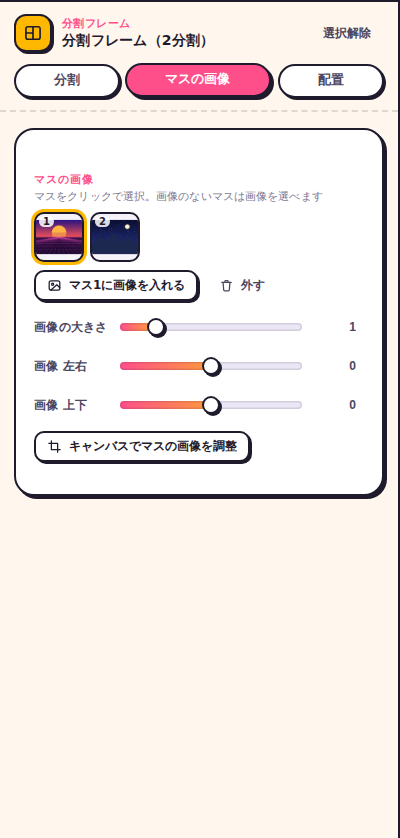
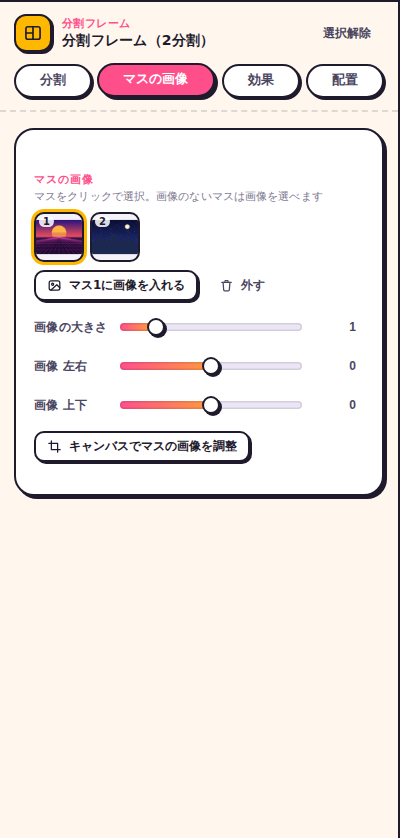
分割フレームに効果（色調・エフェクト・影）を追加、画像のフチ太さを0.01単位に
- 分割フレームに「効果」タブ：全部のマス／マスごとの切り替え、ワンクリック効果11種、
  色調（明るさ・コントラスト・彩度・色相・ぼかし・トーン）、ズーム／モーションブラー、
  モザイク、暗くする、周辺減光、色を重ねる、全体の影
- 背景とマスで色調・効果の処理を共通化（toneFilter / postFx）。背景の見た目は変化なし
- 画像のフチ太さを 0.05〜50・0.01 刻みに
- テスト追加（test_collage_fx）、compare.py で設定パネルの差分を表示、説明書と画像を更新

Claude-Session: https://claude.ai/code/session_017iaXbVyubLxKotPXWxBsUr

Changed region(s): [[0.09, 0.0621, 0.9, 0.1241]]

diff --git a/js/thumb/collage.js b/js/thumb/collage.js
@@ -1,8 +1,36 @@
 /* 楽ちんサムネメーカー：分割フレーム（複数の画像を2〜6分割で並べる） */
+/* マスの画像にかける効果（色調・ぼかし・ズーム／モーションブラー・モザイク・暗く・周辺減光・色を重ねる） */
+const CELL_FX_BASE = () => ({bright:0, contrast:0, sat:0, hue:0, blur:0, tone:'none', duo1:'#1b1464', duo2:'#ff9d5c',
+  zb:{on:false, amt:0.25}, mb:{on:false, dist:120, angle:0}, mosaic:{on:false, size:28}, dim:0, vignette:0, tint:{on:false, c:'#ff7a50', a:0.35, mode:'overlay'}});
+// 保存データの効果を既定値と合わせる（入れ子の項目も）
+function mergeCellFx(o){
+  const b = CELL_FX_BASE(); o = o || {};
+  for(const k in b) if(o[k] != null) b[k] = b[k] && typeof b[k] === 'object' ? Object.assign(b[k], o[k]) : o[k];
+  return b;
+}
+const cellFxOn = x => !!x && (x.bright || x.contrast || x.sat || x.hue || x.blur > 0 || x.tone !== 'none' || x.zb.on || x.mb.on || x.mosaic.on || x.dim > 0 || x.vignette > 0 || x.tint.on);
+// マス i にかかる効果（「全部のマス」なら共通の効果、「マスごと」ならそのマスの効果）
+const collageFx = (L, i) => L.fxMode === 'cell' ? (L.cells[i] || {}).fx : L.fx;
+const CELL_FX_CHIPS = [['vivid', '鮮やか'], ['soft', 'ふんわり'], ['mono', 'モノクロ'], ['retro', 'レトロ'], ['duo', 'デュオトーン'], ['red', 'モノクロ＋赤'],
+  ['dark', '暗く'], ['focus', '集中'], ['speed', '疾走'], ['mosaic', 'モザイク'], ['reset', 'なし']];
+const CELL_FX_PRESETS = {
+  reset:{}, vivid:{sat:0.45, contrast:0.18}, soft:{blur:6, bright:0.05, vignette:0.3}, mono:{tone:'mono', contrast:0.25, vignette:0.4},
+  retro:{tone:'sepia', contrast:0.08, vignette:0.55}, duo:{tone:'duotone', contrast:0.1}, red:{tone:'mono', contrast:0.2, tint:{on:true, c:'#ff2d2d', a:0.45, mode:'multiply'}},
+  dark:{dim:0.45, vignette:0.4}, focus:{zb:{on:true, amt:0.25}, contrast:0.1, vignette:0.45}, speed:{mb:{on:true, dist:120, angle:0}, contrast:0.1}, mosaic:{mosaic:{on:true, size:28}},
+};
 function COLLAGE_BASE(){
   return Object.assign(LAYER_BASE(), {type:'collage',
     bw:1920, bh:1080, n:2, layout:'cols', slant:0, main:0.55, edge:'straight', amp:24, bstyle:'line', lw:10, lc:'#ffffff',
-    outer:false, radius:0, ac:0, cells:[...Array(6)].map(() => ({asset:null, zoom:1, ox:0, oy:0}))});
+    outer:false, radius:0, ac:0, fxMode:'all', fx:CELL_FX_BASE(), shadow:{on:false, blur:30, y:10, a:0.5},
+    cells:[...Array(6)].map(() => ({asset:null, zoom:1, ox:0, oy:0, fx:CELL_FX_BASE()}))});
+}
+// 効果の対象を「マスごと」に切り替えたら、まだ効果のないマスには今の共通の効果を写す
+function collageFxModeChanged(L){ if(L.fxMode === 'cell') L.cells.forEach(c => { if(!cellFxOn(c.fx)) c.fx = mergeCellFx(JSON.parse(JSON.stringify(L.fx))); }); }
+function applyCellFx(name){
+  const L = selLayer(); if(!L || L.type !== 'collage') return;
+  const fx = mergeCellFx(JSON.parse(JSON.stringify(CELL_FX_PRESETS[name] || {})));
+  if(L.fxMode === 'cell') L.cells[L.ac || 0].fx = fx; else L.fx = fx;
+  syncDoc(); docChanged(false);
 }
 const COLLAGE_LAYOUTS = [
   ['cols', '縦に並べる', n => n >= 2], ['rows', '横に並べる', n => n >= 2], ['grid', 'グリッド', n => n === 4 || n === 6], ['grid2', 'グリッド（縦長）', n => n === 6],
@@ -108,7 +136,22 @@ function collageCellImage(x, L, i, poly, W, H, showEmpty){
   }
   const iw = A.img.naturalWidth, ih = A.img.naturalHeight, k = Math.max(cw / iw, ch / ih) * clamp(cell.zoom || 1, 0.2, 8);
   const dw = iw * k, dh = ih * k, cx = bx0 + cw / 2 + (cell.ox || 0) * cw, cy = by0 + ch / 2 + (cell.oy || 0) * ch;
-  x.drawImage(A.img, cx - dw / 2, cy - dh / 2, dw, dh);
+  const fx = collageFx(L, i);
+  if(!cellFxOn(fx)){ x.drawImage(A.img, cx - dw / 2, cy - dh / 2, dw, dh); return; }
+  // 効果あり：マスの範囲（ぼかし・ブラーのぶん少し広め）を別のキャンバスで作ってから置く
+  const f = W / (L.bw * L.sc), m = Math.ceil(fx.blur * f * 3 + (fx.mb.on ? fx.mb.dist * f / 2 : 0));
+  const t = mk(Math.ceil(cw) + m * 2, Math.ceil(ch) + m * 2), tx = t.getContext('2d'), ox = m - bx0, oy = m - by0;
+  tx.filter = toneFilter(fx, f); tx.drawImage(A.img, cx - dw / 2 + ox, cy - dh / 2 + oy, dw, dh); tx.filter = 'none';
+  const o = postFx(t, fx, f, bx0 + cw / 2 + ox, by0 + ch / 2 + oy), ox2 = o.getContext('2d');
+  ox2.save(); ox2.globalCompositeOperation = 'source-atop';
+  if(fx.dim > 0){ ox2.fillStyle = `rgba(0,0,0,${fx.dim})`; ox2.fillRect(0, 0, o.width, o.height); }
+  if(fx.tint.on && fx.tint.a > 0){ ox2.globalCompositeOperation = fx.tint.mode; ox2.globalAlpha = fx.tint.a; ox2.fillStyle = fx.tint.c; ox2.fillRect(0, 0, o.width, o.height); ox2.globalAlpha = 1; ox2.globalCompositeOperation = 'source-atop'; }
+  if(fx.vignette > 0){
+    const vx = bx0 + cw / 2 + ox, vy = by0 + ch / 2 + oy, g = ox2.createRadialGradient(vx, vy, Math.min(cw, ch) * 0.3, vx, vy, Math.hypot(cw, ch) / 2);
+    g.addColorStop(0, 'rgba(0,0,0,0)'); g.addColorStop(1, `rgba(0,0,0,${fx.vignette})`); ox2.fillStyle = g; ox2.fillRect(0, 0, o.width, o.height);
+  }
+  ox2.restore();
+  x.drawImage(o, bx0 - m, by0 - m);
 }
 function collageCanvas(L, W, H, f, lay){
   const n = collageN(L), c = mk(W, H), x = c.getContext('2d'), s = W / L.bw; // s = キャンバス1px あたりのドキュメント倍率
@@ -143,13 +186,14 @@ function drawCollage(ctx, L, f, live, cache){
   const n = collageN(L), lay = collageLayoutOk(L.layout, n) ? L.layout : 'cols';
   const w = L.bw * L.sc, h = L.bh * L.sc, W = Math.max(2, Math.round(w * f)), H = Math.max(2, Math.round(h * f));
   dims.set(L.id, {w, h});
-  const sk = JSON.stringify([L.bw, L.bh, n, lay, L.slant, L.main, L.edge, L.amp, L.bstyle, L.lw, L.lc, L.outer, L.radius, L.cells.slice(0, n), L.cells.slice(0, n).map(c => !!ASSETS[c.asset]), exporting]);
+  const sk = JSON.stringify([L.bw, L.bh, n, lay, L.slant, L.main, L.edge, L.amp, L.bstyle, L.lw, L.lc, L.outer, L.radius, L.fxMode, L.fx, L.cells.slice(0, n), L.cells.slice(0, n).map(c => !!ASSETS[c.asset]), exporting]);
   let e = cache.get(L.id);
   if(!(e && e.sk === sk && (live ? Math.abs(e.c.width - W) / W < 0.5 : e.c.width === W && e.c.height === H))){
     e = {sk, k: W / w, c: collageCanvas(L, W, H, f, lay)}; cache.set(L.id, e);
   }
   ctx.save(); ctx.globalAlpha = L.op ?? 1; ctx.globalCompositeOperation = L.blend || 'source-over';
   ctx.translate(L.x * f, L.y * f); ctx.rotate((L.rot || 0) * PI / 180);
+  const sh = L.shadow; if(sh && sh.on && sh.a > 0){ ctx.shadowColor = `rgba(0,0,0,${sh.a})`; ctx.shadowBlur = sh.blur * f; ctx.shadowOffsetY = sh.y * f; }
   ctx.drawImage(e.c, -w * f / 2, -h * f / 2, w * f, h * f);
   ctx.restore();
 }
@@ -179,7 +223,7 @@ function addCollage(){
 }
 async function collageSetCell(L, i, file){
   const id = await addAsset(await fileToSrc(file), file.name);
-  L.cells[i] = Object.assign({zoom:1, ox:0, oy:0}, L.cells[i], {asset:id, zoom:1, ox:0, oy:0});
+  L.cells[i] = Object.assign({zoom:1, ox:0, oy:0, fx:CELL_FX_BASE()}, L.cells[i], {asset:id, zoom:1, ox:0, oy:0});
 }
 // ドロップ位置のマス、なければ選択中の分割フレームの空いているマスに順に入れる。残りを返す
 async function collageTakeFiles(files, cx, cy){
@@ -208,14 +252,17 @@ async function collageTakeFiles(files, cx, cy){
 
 /* マスの一覧（操作パネル） */
 function renderCells(){
-  const box = document.getElementById('cellBox'), L = selLayer(); if(!box || !L || L.type !== 'collage') return;
+  const L = selLayer(); if(!L || L.type !== 'collage') return;
   const n = collageN(L); L.ac = clamp(L.ac || 0, 0, n - 1);
   const key = [L.id, n, L.ac, ...L.cells.slice(0, n).map(c => ASSETS[c.asset] ? c.asset : '')].join('|');
+  document.querySelectorAll('.cellBox').forEach(box => {
   if(box.dataset.key === key) return; box.dataset.key = key;
   box.innerHTML = `<div class="cellgrid">${[...Array(n)].map((_, i) => { const A = ASSETS[L.cells[i].asset];
     return `<button class="cellbtn${i === L.ac ? ' on' : ''}" data-cell="${i}" title="マス${i + 1}">${A ? `<img src="${A.thumb}" alt="">` : `<span>${i + 1}</span>`}<em>${i + 1}</em></button>`; }).join('')}</div>
     <div class="crow" style="margin-top:8px"><button class="btn sm" data-cellact="pick">${ic('image')}マス${L.ac + 1}に画像を入れる</button>${ASSETS[L.cells[L.ac].asset] ? `<button class="btn sm ghost" data-cellact="clear">${ic('trash')}外す</button>` : ''}</div>`;
+  });
 }
+document.addEventListener('click', e => { const b = e.target.closest('[data-cfx]'); if(b) applyCellFx(b.dataset.cfx); });
 document.addEventListener('click', e => {
   const cb = e.target.closest('[data-cell]'), ca = e.target.closest('[data-cellact]'), L = selLayer();
   if(!L || L.type !== 'collage' || (!cb && !ca)) return;

diff --git a/js/thumb/inspector.js b/js/thumb/inspector.js
@@ -1,5 +1,31 @@
 /* 楽ちんサムネメーカー：操作パネル・モード・タブ */
 /* ---------- パネル ---------- */
+// 分割フレームの「効果」ページ。共通（@fx.）とマスごと（@cell.fx.）で同じ行を作り、切り替えで出し分ける
+const CFX_ROWS = (P, S) => [
+  {pg:'cfx', cfxchips:true, show:S},
+  {pg:'cfx', sub:'色調', show:S},
+  {pg:'cfx', r:P + 'bright', l:'明るさ', min:-0.6, max:0.6, step:0.01, show:S},
+  {pg:'cfx', r:P + 'contrast', l:'コントラスト', min:-0.8, max:1, step:0.01, show:S},
+  {pg:'cfx', r:P + 'sat', l:'彩度', min:-1, max:1, step:0.01, show:S},
+  {pg:'cfx', r:P + 'hue', l:'色相', min:-180, max:180, step:1, show:S},
+  {pg:'cfx', r:P + 'blur', l:'ぼかし', min:0, max:40, step:0.5, show:S},
+  {pg:'cfx', seg:P + 'tone', l:'トーン', opts:[['none', 'なし'], ['mono', 'モノクロ'], ['sepia', 'セピア'], ['duotone', '2色']], show:S},
+  {pg:'cfx', c:P + 'duo1', l:'暗い色', show:S + '&' + P + 'tone=duotone'}, {pg:'cfx', c:P + 'duo2', l:'明るい色', show:S + '&' + P + 'tone=duotone'},
+  {pg:'cfx', sub:'エフェクト', show:S},
+  {pg:'cfx', chk:P + 'zb.on', l:'ズームブラー（マスの中心へ吸い込まれる）', show:S},
+  {pg:'cfx', r:P + 'zb.amt', l:'強さ', min:0.02, max:0.8, step:0.01, show:S + '&' + P + 'zb.on=true'},
+  {pg:'cfx', chk:P + 'mb.on', l:'モーションブラー（流れる）', show:S},
+  {pg:'cfx', r:P + 'mb.dist', l:'距離', min:5, max:400, step:1, show:S + '&' + P + 'mb.on=true'},
+  {pg:'cfx', r:P + 'mb.angle', l:'方向', min:-90, max:90, step:1, show:S + '&' + P + 'mb.on=true'},
+  {pg:'cfx', chk:P + 'mosaic.on', l:'モザイク', show:S},
+  {pg:'cfx', r:P + 'mosaic.size', l:'粗さ', min:4, max:120, step:1, show:S + '&' + P + 'mosaic.on=true'},
+  {pg:'cfx', r:P + 'dim', l:'暗くする', min:0, max:0.85, step:0.01, show:S},
+  {pg:'cfx', r:P + 'vignette', l:'周辺減光', min:0, max:1, step:0.01, show:S},
+  {pg:'cfx', chk:P + 'tint.on', l:'色を重ねる', show:S},
+  {pg:'cfx', c:P + 'tint.c', l:'色', show:S + '&' + P + 'tint.on=true'},
+  {pg:'cfx', r:P + 'tint.a', l:'濃さ', min:0, max:1, step:0.01, show:S + '&' + P + 'tint.on=true'},
+  {pg:'cfx', sel:P + 'tint.mode', l:'重ね方', opts:[['overlay', 'オーバーレイ'], ['multiply', '乗算（暗く）'], ['screen', 'スクリーン（明るく）'], ['soft-light', 'ソフトライト'], ['color', 'カラー（単色化）']], show:S + '&' + P + 'tint.on=true'},
+];
 const SEL_ROWS = [
   {pg:'base', r:'@sc', l:'大きさ', min:0.05, max:10, step:0.01},
   {pg:'base', r:'@rot', l:'回転', min:-180, max:180, step:1},
@@ -43,6 +69,16 @@ const SEL_ROWS = [
   {pg:'cells', r:'@cell.ox', l:'画像 左右', min:-1, max:1, step:0.005, show:'@type=collage'},
   {pg:'cells', r:'@cell.oy', l:'画像 上下', min:-1, max:1, step:0.005, show:'@type=collage'},
   {pg:'cells', btns:[['collageEditBtn', 'crop', 'キャンバスでマスの画像を調整']], show:'@type=collage'},
+  {pg:'cfx', sub:'効果', note:'マスの画像に色調やエフェクトをかけます', show:'@type=collage'},
+  {pg:'cfx', seg:'@fxMode', l:'かける対象', opts:[['all', '全部のマス'], ['cell', 'マスごと']], show:'@type=collage'},
+  {pg:'cfx', cells:true, show:'@type=collage&@fxMode=cell'},
+  ...CFX_ROWS('@fx.', '@type=collage&@fxMode=all'),
+  ...CFX_ROWS('@cell.fx.', '@type=collage&@fxMode=cell'),
+  {pg:'cfx', sub:'全体の影', show:'@type=collage'},
+  {pg:'cfx', chk:'@shadow.on', l:'影を付ける', show:'@type=collage'},
+  {pg:'cfx', r:'@shadow.blur', l:'影ぼかし', min:0, max:120, step:1, show:'@type=collage&@shadow.on=true'},
+  {pg:'cfx', r:'@shadow.y', l:'影の位置', min:-60, max:90, step:1, show:'@type=collage&@shadow.on=true'},
+  {pg:'cfx', r:'@shadow.a', l:'影の濃さ', min:0, max:1, step:0.01, show:'@type=collage&@shadow.on=true'},
   {pg:'base', sub:'全体の大きさ', show:'@type=collage'},
   {pg:'base', r:'@bw', l:'横幅', min:100, max:1920, step:1, show:'@type=collage'},
   {pg:'base', r:'@bh', l:'高さ', min:100, max:1080, step:1, show:'@type=collage'},
@@ -60,7 +96,7 @@ const SEL_ROWS = [
   {pg:'frame', r:'@frame.cx', l:'位置 左右', min:0, max:1, step:0.002, show:'@type=image&@frame.shape!=none'},
   {pg:'frame', r:'@frame.cy', l:'位置 上下', min:0, max:1, step:0.002, show:'@type=image&@frame.shape!=none'},
   {pg:'edge', chk:'@outline.on', l:'フチを付ける（切り抜き画像向け）', show:'@type=image&@frame.shape=none'},
-  {pg:'frame|edge', r:'@outline.w', l:'フチ太さ', min:1, max:50, step:0.5, show:'@type=image'},
+  {pg:'frame|edge', r:'@outline.w', l:'フチ太さ', min:0.05, max:50, step:0.01, show:'@type=image'},
   {pg:'frame|edge', c:'@outline.c', l:'フチ色', show:'@type=image'},
   {pg:'frame', c:'@frame.c2', l:'2色目', show:'@type=image&@frame.style=pop|grad|tape|neon2|block|triple|stitch|halftone|pixel'},
   {pg:'edge', chk:'@shadow.on', l:'影を付ける', show:'@type=image'},
@@ -128,7 +164,8 @@ const drowPg = (r, bg) => `<div data-pg="${rowPg(r, bg)}">${drow(r)}</div>`;
 function drow(r){
   const sa = r.show ? ` data-dshow="${r.show}"` : '';
   if(r.layouts) return `<div class="row"${sa}><label>${r.l}</label><div class="seg shapes lays" data-dseg="@layout">${[2, 3, 4, 5, 6].flatMap(n => COLLAGE_LAYOUTS.filter(l => l[2](n)).map(([k, t]) => `<button data-v="${k}" data-dshow="@n=${n}" title="${t}"><img src="${collageIcon(k, n)}" alt="${t}"></button>`)).join('')}</div></div>`;
-  if(r.cells) return `<div id="cellBox"${sa}></div>`;
+  if(r.cells) return `<div class="cellBox"${sa}></div>`;
+  if(r.cfxchips) return `<div${sa}><div class="subhead" style="margin-top:18px">ワンクリック効果</div><div class="pcats fxchips">${CELL_FX_CHIPS.map(([k, t]) => `<button data-cfx="${k}">${t}</button>`).join('')}</div></div>`;
   if(r.frpre){ const nm = Object.fromEntries(FRAME_PRESETS.map(p => [p[0], p[1]]));
     return `<div${sa}>${FRAME_GROUPS.map(([g, ks]) => `<div class="frgrp">${g}</div><div class="pcats frpre">${ks.map(k => `<button data-frpre="${k}">${nm[k]}</button>`).join('')}</div>`).join('')}<div class="pcats frpre"><button data-frpre="off">フレームなし</button></div></div>`; }
   if(r.shapes) return `<div class="row"${sa}><label>${r.l}</label><div class="seg shapes" data-dseg="@frame.shape">${FRAME_SHAPES.map(([k, t]) => `<button data-v="${k}" title="${t}">${k === 'none' ? '<span>なし</span>' : `<img src="${shapeIcon(k)}" alt="${t}">`}</button>`).join('')}</div></div>`;
@@ -154,7 +191,7 @@ const INS_PAGES = {
   textmode:[['txt-text', 'テキスト'], ['txt-style', 'スタイル'], ['txt-font', 'フォント'], ['txt-deco', '装飾']],
   text:[['txt-text', 'テキスト'], ['txt-style', 'スタイル'], ['txt-font', 'フォント'], ['txt-deco', '装飾'], ['lay-base', '配置']],
   image:[['lay-base', '配置'], ['lay-frame', 'フレーム'], ['lay-edge', 'フチ・影']],
-  collage:[['lay-split', '分割'], ['lay-cells', 'マスの画像'], ['lay-base', '配置']],
+  collage:[['lay-split', '分割'], ['lay-cells', 'マスの画像'], ['lay-cfx', '効果'], ['lay-base', '配置']],
   fx:[['lay-fx', 'エフェクト'], ['lay-base', '配置']],
   bg:[['bg-main', '背景'], ['bg-tone', '色調'], ['bg-fx', '効果']],
 };

diff --git a/index.html b/index.html
@@ -11,7 +11,7 @@
 <link rel="preconnect" href="https://fonts.googleapis.com">
 <link rel="preconnect" href="https://fonts.gstatic.com" crossorigin>
 <link href="https://fonts.googleapis.com/css2?family=Inter:wght@400;500;600;700&family=M+PLUS+Rounded+1c:wght@400;500;700;800&family=Noto+Sans+JP:wght@400;700;900&display=swap" rel="stylesheet">
-<link rel="stylesheet" href="css/app.css?v=07559260">
+<link rel="stylesheet" href="css/app.css?v=8f9c12eb">
 </head>
 <body class="mode-thumb">
 <header class="app-head">
@@ -287,30 +287,30 @@
   <p>フォントファイル（.ttf / .otf）やプロジェクト（.json）はどこに落としてもOK</p>
 </div>
 
-<script src="js/core.js?v=07559260"></script>
-<script src="js/bind.js?v=07559260"></script>
-<script src="js/presets.js?v=07559260"></script>
-<script src="js/data/font-list.js?v=07559260"></script>
-<script src="js/fonts.js?v=07559260"></script>
-<script src="js/controls.js?v=07559260"></script>
-<script src="js/text-render.js?v=07559260"></script>
-<script src="js/preview.js?v=07559260"></script>
-<script src="js/colors.js?v=07559260"></script>
-<script src="js/history.js?v=07559260"></script>
-<script src="js/thumb/frames.js?v=07559260"></script>
-<script src="js/thumb/collage.js?v=07559260"></script>
-<script src="js/thumb/fx.js?v=07559260"></script>
-<script src="js/thumb/assets.js?v=07559260"></script>
-<script src="js/thumb/doc.js?v=07559260"></script>
-<script src="js/thumb/render.js?v=07559260"></script>
-<script src="js/thumb/overlay.js?v=07559260"></script>
-<script src="js/thumb/editmodes.js?v=07559260"></script>
-<script src="js/thumb/layers.js?v=07559260"></script>
-<script src="js/thumb/export.js?v=07559260"></script>
-<script src="js/thumb/inspector.js?v=07559260"></script>
-<script src="js/thumb/events.js?v=07559260"></script>
-<script src="js/mobile.js?v=07559260"></script>
-<script src="js/popups.js?v=07559260"></script>
-<script src="js/main.js?v=07559260"></script>
+<script src="js/core.js?v=8f9c12eb"></script>
+<script src="js/bind.js?v=8f9c12eb"></script>
+<script src="js/presets.js?v=8f9c12eb"></script>
+<script src="js/data/font-list.js?v=8f9c12eb"></script>
+<script src="js/fonts.js?v=8f9c12eb"></script>
+<script src="js/controls.js?v=8f9c12eb"></script>
+<script src="js/text-render.js?v=8f9c12eb"></script>
+<script src="js/preview.js?v=8f9c12eb"></script>
+<script src="js/colors.js?v=8f9c12eb"></script>
+<script src="js/history.js?v=8f9c12eb"></script>
+<script src="js/thumb/frames.js?v=8f9c12eb"></script>
+<script src="js/thumb/collage.js?v=8f9c12eb"></script>
+<script src="js/thumb/fx.js?v=8f9c12eb"></script>
+<script src="js/thumb/assets.js?v=8f9c12eb"></script>
+<script src="js/thumb/doc.js?v=8f9c12eb"></script>
+<script src="js/thumb/render.js?v=8f9c12eb"></script>
+<script src="js/thumb/overlay.js?v=8f9c12eb"></script>
+<script src="js/thumb/editmodes.js?v=8f9c12eb"></script>
+<script src="js/thumb/layers.js?v=8f9c12eb"></script>
+<script src="js/thumb/export.js?v=8f9c12eb"></script>
+<script src="js/thumb/inspector.js?v=8f9c12eb"></script>
+<script src="js/thumb/events.js?v=8f9c12eb"></script>
+<script src="js/mobile.js?v=8f9c12eb"></script>
+<script src="js/popups.js?v=8f9c12eb"></script>
+<script src="js/main.js?v=8f9c12eb"></script>
 </body>
 </html>

diff --git a/js/thumb/render.js b/js/thumb/render.js
@@ -96,6 +96,26 @@ function motionBlur(src, dist, angle){
   x.globalAlpha = 1;
   return o;
 }
+/* 画像の色調・効果（背景と分割フレームのマスで共通。b は bright/contrast/sat/hue/blur/tone/duo1/duo2/mosaic/mb/zb を持つ） */
+function toneFilter(b, f){
+  const fl = [];
+  if(b.bright) fl.push(`brightness(${1 + b.bright})`);
+  if(b.contrast) fl.push(`contrast(${Math.max(0, 1 + b.contrast)})`);
+  if(b.sat) fl.push(`saturate(${Math.max(0, 1 + b.sat)})`);
+  if(b.hue) fl.push(`hue-rotate(${b.hue}deg)`);
+  if(b.tone === 'mono') fl.push('grayscale(1)'); else if(b.tone === 'sepia') fl.push('sepia(.9)');
+  if(b.blur > 0) fl.push(`blur(${b.blur * f}px)`);
+  return fl.join(' ') || 'none';
+}
+// 描き終えた画像にかける効果（2色・モザイク・モーションブラー・ズームブラー）。cx, cy はズームブラーの中心
+function postFx(c, b, f, cx, cy){
+  if(b.tone === 'duotone') duotone(c, b.duo1, b.duo2);
+  if(b.mosaic.on) mosaic(c, b.mosaic.size * f);
+  let out = c;
+  if(b.mb.on && b.mb.dist > 0) out = motionBlur(out, b.mb.dist * f, b.mb.angle);
+  if(b.zb.on && b.zb.amt > 0) out = zoomBlur(out, b.zb.amt, cx, cy);
+  return out;
+}
 function bgImageLayer(W, H, f){
   const b = DOC.bg, A = ASSETS[b.asset], c = mk(W, H), x = c.getContext('2d');
   x.fillStyle = '#101014'; x.fillRect(0, 0, W, H);
@@ -107,21 +127,9 @@ function bgImageLayer(W, H, f){
     x.drawImage(A.img, (W - iw * cover) / 2 - m, (H - ih * cover) / 2 - m, iw * cover + 2 * m, ih * cover + 2 * m); x.restore();
   }else{ x.fillStyle = b.gapColor; x.fillRect(0, 0, W, H); }
   const s = (b.fit === 'contain' ? Math.min(W / iw, H / ih) : cover) * b.zoom, dw = iw * s, dh = ih * s;
-  const fl = [];
-  if(b.bright) fl.push(`brightness(${1 + b.bright})`);
-  if(b.contrast) fl.push(`contrast(${Math.max(0, 1 + b.contrast)})`);
-  if(b.sat) fl.push(`saturate(${Math.max(0, 1 + b.sat)})`);
-  if(b.hue) fl.push(`hue-rotate(${b.hue}deg)`);
-  if(b.tone === 'mono') fl.push('grayscale(1)'); else if(b.tone === 'sepia') fl.push('sepia(.9)');
-  if(b.blur > 0) fl.push(`blur(${b.blur * f}px)`);
   x.save(); x.translate(W / 2 + b.ox * W / 2, H / 2 + b.oy * H / 2); x.rotate((b.rot || 0) * PI / 180); if(b.flip) x.scale(-1, 1);
-  x.filter = fl.join(' ') || 'none'; x.drawImage(A.img, -dw / 2, -dh / 2, dw, dh); x.restore();
-  if(b.tone === 'duotone') duotone(c, b.duo1, b.duo2);
-  if(b.mosaic.on) mosaic(c, b.mosaic.size * f);
-  let out = c;
-  if(b.mb.on && b.mb.dist > 0) out = motionBlur(out, b.mb.dist * f, b.mb.angle);
-  if(b.zb.on && b.zb.amt > 0) out = zoomBlur(out, b.zb.amt, clamp(b.fcx, 0, 1) * W, clamp(b.fcy, 0, 1) * H);
-  return out;
+  x.filter = toneFilter(b, f); x.drawImage(A.img, -dw / 2, -dh / 2, dw, dh); x.restore();
+  return postFx(c, b, f, clamp(b.fcx, 0, 1) * W, clamp(b.fcy, 0, 1) * H);
 }
 function drawBackground(ctx, W, H, f){
   const b = DOC.bg;

diff --git a/js/thumb/doc.js b/js/thumb/doc.js
@@ -37,7 +37,8 @@ function normalizeDoc(d){
   if(d.bg && d.bg.fcx == null && d.bg.zb && (d.bg.zb.cx !== 0.5 || d.bg.zb.cy !== 0.5) && d.bg.zb.cx != null){ o.bg.fcx = d.bg.zb.cx; o.bg.fcy = d.bg.zb.cy; }
   o.layers = d.layers.filter(L => L.type !== 'fx' || FX_DEF[L.kind]).map(L => L.type === 'text'
     ? Object.assign(LAYER_BASE(), L, {style: merged(L.style || {})})
-    : L.type === 'collage' ? (b => Object.assign(b, L, {cells: b.cells.map((c, i) => Object.assign(c, (L.cells || [])[i] || {}))}))(COLLAGE_BASE())
+    : L.type === 'collage' ? (b => Object.assign(b, L, {fx: mergeCellFx(L.fx), shadow: Object.assign(b.shadow, L.shadow || {}),
+        cells: b.cells.map((c, i) => { const s = (L.cells || [])[i] || {}; return Object.assign(c, s, {fx: mergeCellFx(s.fx)}); })}))(COLLAGE_BASE())
     : L.type === 'fx' ? Object.assign(LAYER_BASE(), L, {p:Object.assign(FX_DEF[L.kind](), L.p || {})})
     : Object.assign(LAYER_BASE(), IMAGE_BASE(), L, {
         outline: Object.assign(IMAGE_BASE().outline, L.outline || {}),
@@ -72,6 +73,7 @@ function dSet(k, v){
   const ps = p.split('.'), last = ps.pop(), o = ps.reduce((o, q) => o?.[q], b);
   if(o) o[last] = v;
   if(k === '@n' && b.type === 'collage' && !collageLayoutOk(b.layout, collageN(b))) b.layout = 'cols';
+  if(k === '@fxMode' && b.type === 'collage') collageFxModeChanged(b);
 }
 function docChanged(live){
   saveDoc(); clearTimeout(histT); histT = setTimeout(pushHist, 450);

diff --git a/js/thumb/frames.js b/js/thumb/frames.js
@@ -163,7 +163,7 @@ function framedCanvas(L, f, live, cache){
   if(e && e.sk === sk && (live || Math.abs(e.k - need) / need < 0.02)) return e;
   const G = frameGeom(L), iw = G.iw, ih = G.ih;
   const FW = Math.max(2, G.fw * need), FH = Math.max(2, G.fh * need);
-  const st = fr.style || 'solid', E = st === 'none' ? 0 : Math.max(0.5, o.w * f);
+  const st = fr.style || 'solid', E = st === 'none' ? 0 : Math.max(0.05, o.w * f);
   const tw = Math.min(FW, FH) * 0.36;
   const pad = Math.ceil(E * ({photo:4.6, neon:3.4, book:2.8, neon2:5.5, pop:2, hud:3.4, bracket:2.6, glitch:2.4, metal:1.6, block:4, rgb:3.2, halftone:5.4, brush:2.8, film:4, stitch:1.4, sticker:2, crt:1.8, pixel:1.8, aura:8, triple:2.4}[st] || 1.4) + (st === 'tape' ? tw * 0.5 : 0)) + 4;
   const c = mk(FW + pad * 2, FH + pad * 2), x = c.getContext('2d');

diff --git a/tests/test_collage_fx.py b/tests/test_collage_fx.py
@@ -1,0 +1,50 @@
+"""分割フレームの効果：全部のマス／マスごと、ワンクリック効果、色調・ブラー・モザイク、全体の影、保存データの読み込み"""
+from helpers import *
+
+# 選択中の分割フレームだけを描いた、マスの中心の色（左・右）
+PX = """(() => { DOC.bg.hidden = true; DOC.layers.forEach(l => { l.hidden = l.type !== 'collage'; }); prevCache.clear(); paintPreview(false);
+  const c = document.querySelector('#tv'), x = c.getContext('2d'), g = (u, v) => Array.from(x.getImageData(Math.round(c.width * u), Math.round(c.height * v), 1, 1).data);
+  return [g(0.25, 0.5), g(0.75, 0.5)]; })()"""
+gray = lambda p: max(p[:3]) - min(p[:3]) <= 3
+
+async def run(p):
+    pg = await open_app(p)
+    await pg.evaluate("addCollage()"); await pg.wait_for_timeout(500)
+    await page(pg, 'lay-cells'); await pg.click('[data-cell="0"]')
+    await pg.set_input_files('#cellfile', [IMG['synth.jpg'], IMG['night.jpg']]); await settle(pg, 2000)
+    await pg.evaluate("(() => { selLayer().bstyle = 'none'; syncDoc(); docChanged(false); })()")
+    before = await pg.evaluate(PX)
+
+    await page(pg, 'lay-cfx')
+    assert await pg.is_visible('[data-cfx="mono"]:visible'), '効果のページにワンクリック効果がない'
+    assert not await pg.is_visible('.cellBox >> nth=1'), '全部のマスのときにマスの一覧が出ている'
+    # 全部のマスにモノクロ
+    await pg.click('[data-cfx="mono"]:visible'); await settle(pg, 600)
+    assert await pg.evaluate("selLayer().fx.tone") == 'mono'
+    l, r = await pg.evaluate(PX)
+    assert gray(l) and gray(r), f'モノクロが両方のマスにかかっていない {l} {r}'
+
+    # マスごと：マス2だけ効果なし・マス1はモノクロのまま（切り替え時に共通の効果が写る）
+    await pg.click('.seg[data-dseg="@fxMode"] [data-v="cell"]'); await settle(pg, 400)
+    assert await pg.evaluate("selLayer().cells.slice(0, 2).map(c => c.fx.tone)") == ['mono', 'mono'], 'マスごとに切り替えたとき共通の効果が写っていない'
+    await pg.click('.cellBox:visible [data-cell="1"]'); await pg.click('[data-cfx="reset"]:visible'); await settle(pg, 600)
+    l, r = await pg.evaluate(PX)
+    assert gray(l) and not gray(r), f'マスごとの効果になっていない {l} {r}'
+    assert r == before[1], '「なし」で元に戻らない'
+
+    # スライダー（マスごと）：明るさ
+    await pg.evaluate("""(() => { const el = [...document.querySelectorAll('[data-d="@cell.fx.bright"]')].find(e => e.offsetParent); el.value = 0.5; el.dispatchEvent(new Event('input', {bubbles:true})); })()""")
+    await settle(pg, 600)
+    assert await pg.evaluate("selLayer().cells[1].fx.bright") == 0.5
+    l2, r2 = await pg.evaluate(PX)
+    assert sum(r2[:3]) > sum(before[1][:3]), '明るさが効いていない'
+
+    # 重い効果の組み合わせ・全体の影で落ちないこと
+    await pg.evaluate("""(() => { const L = selLayer(); L.fxMode = 'all';
+      Object.assign(L.fx, {blur:4, tone:'duotone', dim:0.2, vignette:0.5}); L.fx.zb.on = L.fx.mb.on = L.fx.mosaic.on = L.fx.tint.on = true;
+      L.shadow.on = true; L.sc = 0.6; syncDoc(); docChanged(false); })()"""); await settle(pg, 1000)
+    # 保存データの読み込み（効果のない古いデータ）
+    ok = await pg.evaluate("""(() => { const d = JSON.parse(JSON.stringify(DOC)); const c = d.layers.find(l => l.type === 'collage'); delete c.fx; delete c.shadow; delete c.fxMode; c.cells.forEach(x => delete x.fx);
+      const o = normalizeDoc(d).layers.find(l => l.type === 'collage'); return o.fxMode === 'all' && o.fx.zb.on === false && o.cells.every(x => x.fx && x.fx.tint) && o.shadow.on === false; })()""")
+    assert ok, '古い保存データを読み込めない'
+    await close(pg)

diff --git a/tests/compare.py b/tests/compare.py
@@ -54,6 +54,11 @@ async def main(ref):
             same = len(A['presets']) == len(B['presets']) and not pd
             print(f"{'✔' if same else '✘'} プリセットの描画 {len(B['presets'])} 件{'' if same else '  違う番号 ' + str(pd)}"); ok &= same
             print(f"{'✔' if A['pages'] == B['pages'] else '✘'} 設定パネルのページごとの項目"); ok &= A['pages'] == B['pages']
+            for pgk in sorted(set(A['pages']) | set(B['pages'])):
+                a, b = A['pages'].get(pgk, []), B['pages'].get(pgk, [])
+                if a != b:
+                    add, rem = [x for x in b if x not in a], [x for x in a if x not in b]
+                    print(f"    {pgk}: 追加 {len(add)} {add[:6]}{'…' if len(add) > 6 else ''} / 削除 {len(rem)} {rem[:6]}" + ('' if add or rem else ' / 並び順のみ'))
             print('\n変化なし' if ok else '\n違いがあります（意図した変更か確認してください）')
             return 0 if ok else 1
         finally:

diff --git a/tools/docs-screenshots.py b/tools/docs-screenshots.py
@@ -48,6 +48,9 @@ async def main_screens(p):
     await page(pg, 'lay-cells'); await pg.click('[data-cell="0"]'); await pg.set_input_files('#cellfile', [IMG['synth.jpg'], IMG['night.jpg']]); await settle(pg, 2200)
     await page(pg, 'lay-split'); await settle(pg, 600); await shot(pg, 'collage.png')
     await page(pg, 'lay-cells'); await shot(pg, 'ins-cells.png', clip=SIDE)
+    await page(pg, 'lay-cfx'); await pg.click('.seg[data-dseg="@fxMode"] [data-v="cell"]')
+    await pg.click('.cellBox:visible [data-cell="0"]'); await pg.click('[data-cfx="red"]:visible')
+    await pg.click('.cellBox:visible [data-cell="1"]'); await pg.click('[data-cfx="focus"]:visible'); await settle(pg, 1200); await shot(pg, 'collage-fx.png')
     await pg.click('#modeSeg [data-mode=text]'); await settle(pg, 1400); await shot(pg, 'text-mode.png')
     await close(pg)
 
